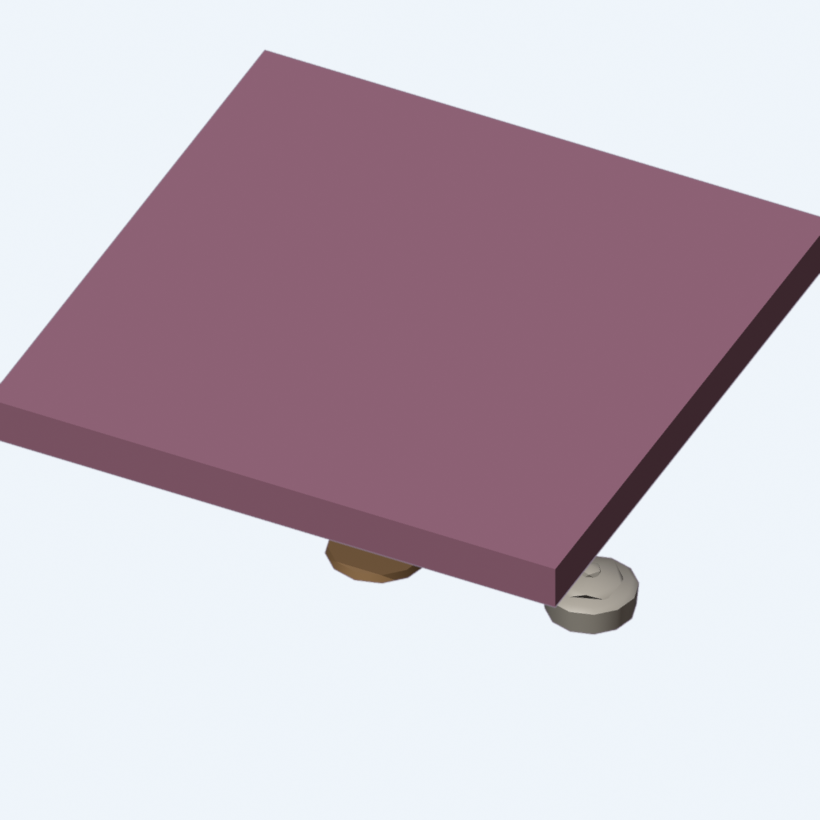
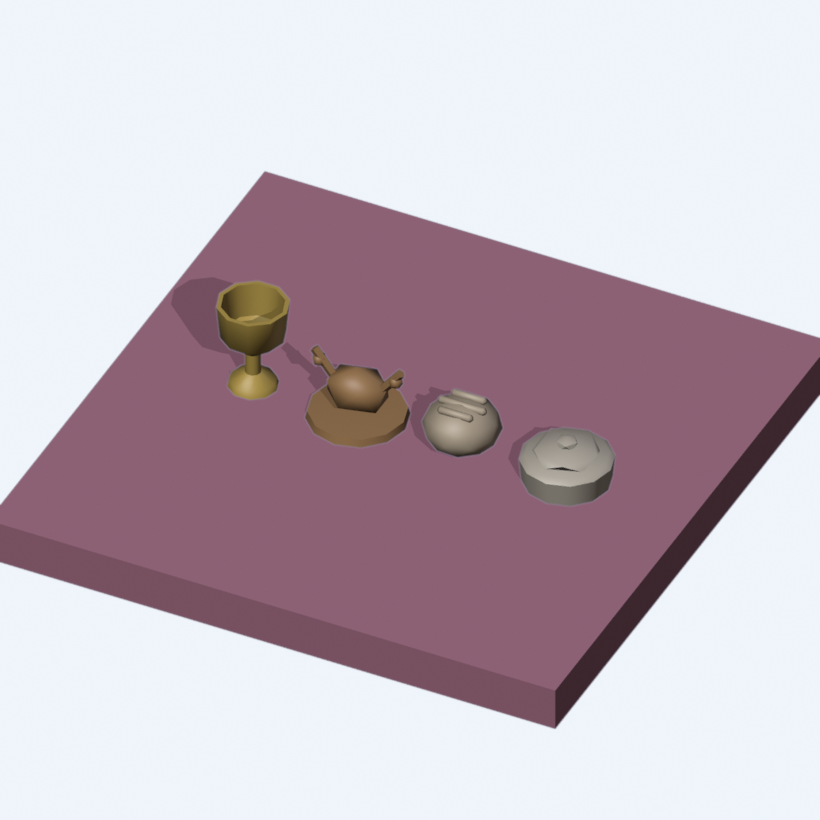
castle render: the feast shot was a picture of the floor
The preview floor was lifted to table height for that shot while the four
props sat at their own origins, so the slab rendered on top of them and the
committed feast.png showed a bare tabletop with two crumbs peeking out from
under it. Dropped the lift and spread the props into a row — the question
that picture answers is whether the four tell each other apart, which
overlapping silhouettes prevent.

Caught by looking at the image. The build had nothing to say about it.

Claude-Session: https://claude.ai/code/session_0159y2RedQ8h6oPYxovTEG7t

diff --git a/art/blend/castle_render.py b/art/blend/castle_render.py
@@ -289,11 +289,15 @@ SHOTS = [
 LAYOUTS = {
     "armour": {"plinth-block": (0.0, 0.0, 0.0)},
     "tapestry": {},
+    # The four feast props are each authored about the origin, so a shot of
+    # them together has to spread them out. A row, not a huddle: the question
+    # this picture answers is "are these four things telling each other
+    # apart", and overlapping silhouettes are exactly what stops it doing so.
     "feast": {
-        "feast-goblet": (-0.55, 0.15, 0.0),
-        "feast-roast": (0.0, -0.30, 0.0),
-        "feast-loaf": (0.50, 0.20, 0.0),
-        "feast-pie": (0.95, -0.25, 0.0),
+        "feast-goblet": (-0.72, 0.0, 0.0),
+        "feast-roast": (-0.24, 0.0, 0.0),
+        "feast-loaf": (0.24, 0.0, 0.0),
+        "feast-pie": (0.72, 0.0, 0.0),
     },
 }
 
@@ -414,8 +418,6 @@ def main() -> None:
             floor = standin("preview-floor", (span, span, 0.2), (0.0, 0.0, -0.1), 0xF0A3C1)
             floor.hide_render = False
             shown = shown + [floor]
-        if stem == "feast":
-            floor.location = (0.0, 0.0, cb.TABLE_TOP - 0.1)
         bpy.context.view_layer.update()
         frame(shown, azimuth, elevation, camera, pad)
         bpy.context.scene.render.filepath = os.path.join(OUT, f"{stem}.png")
